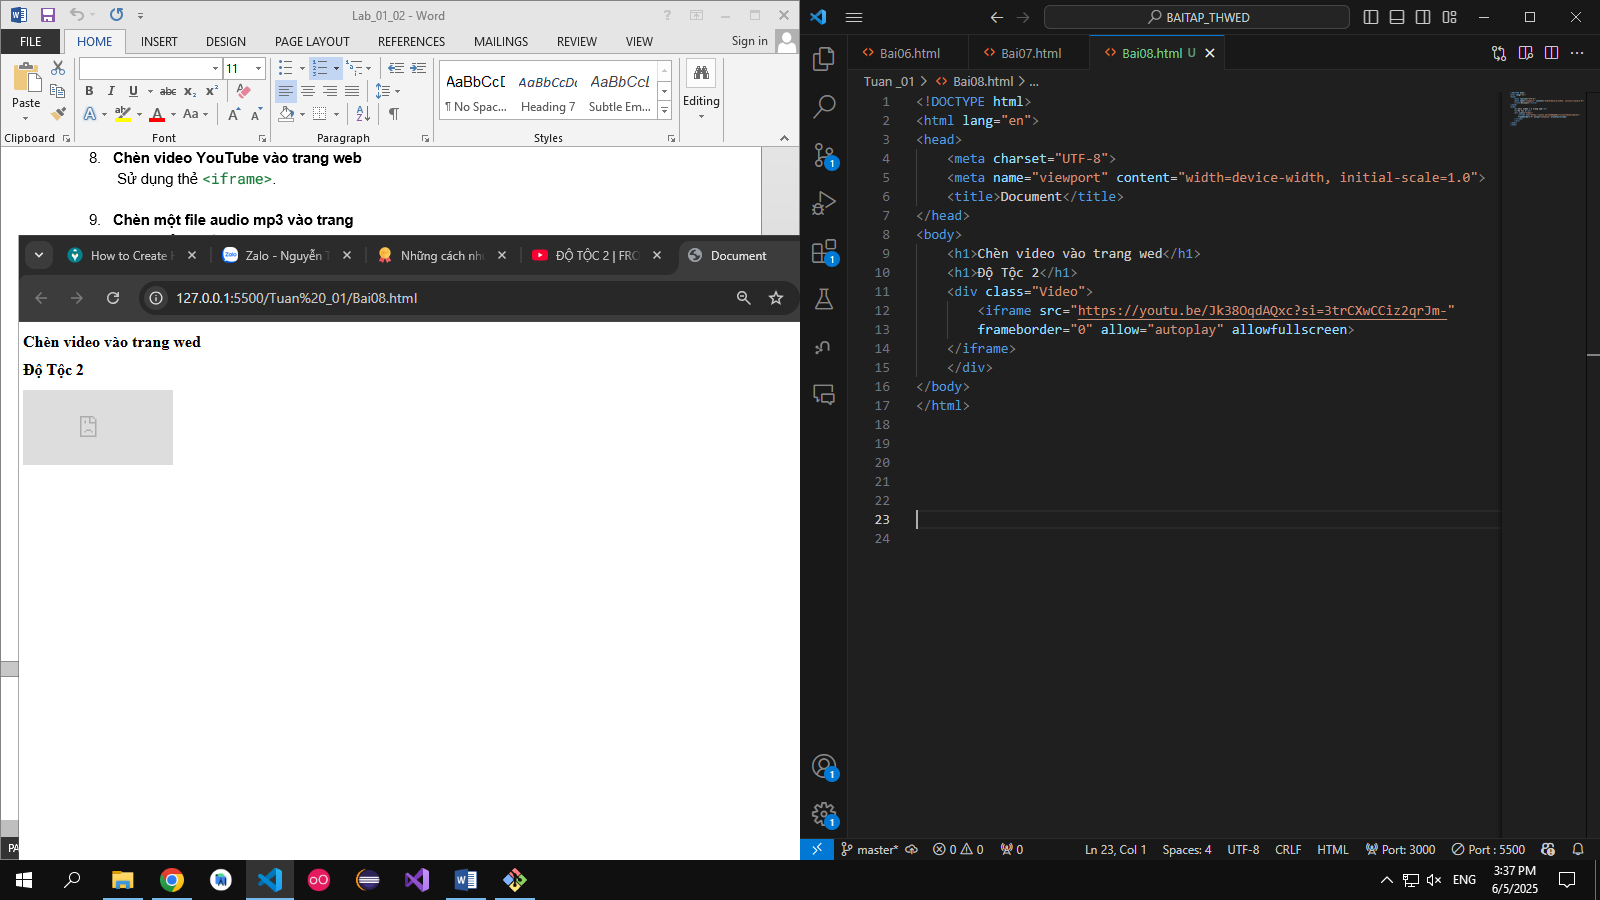
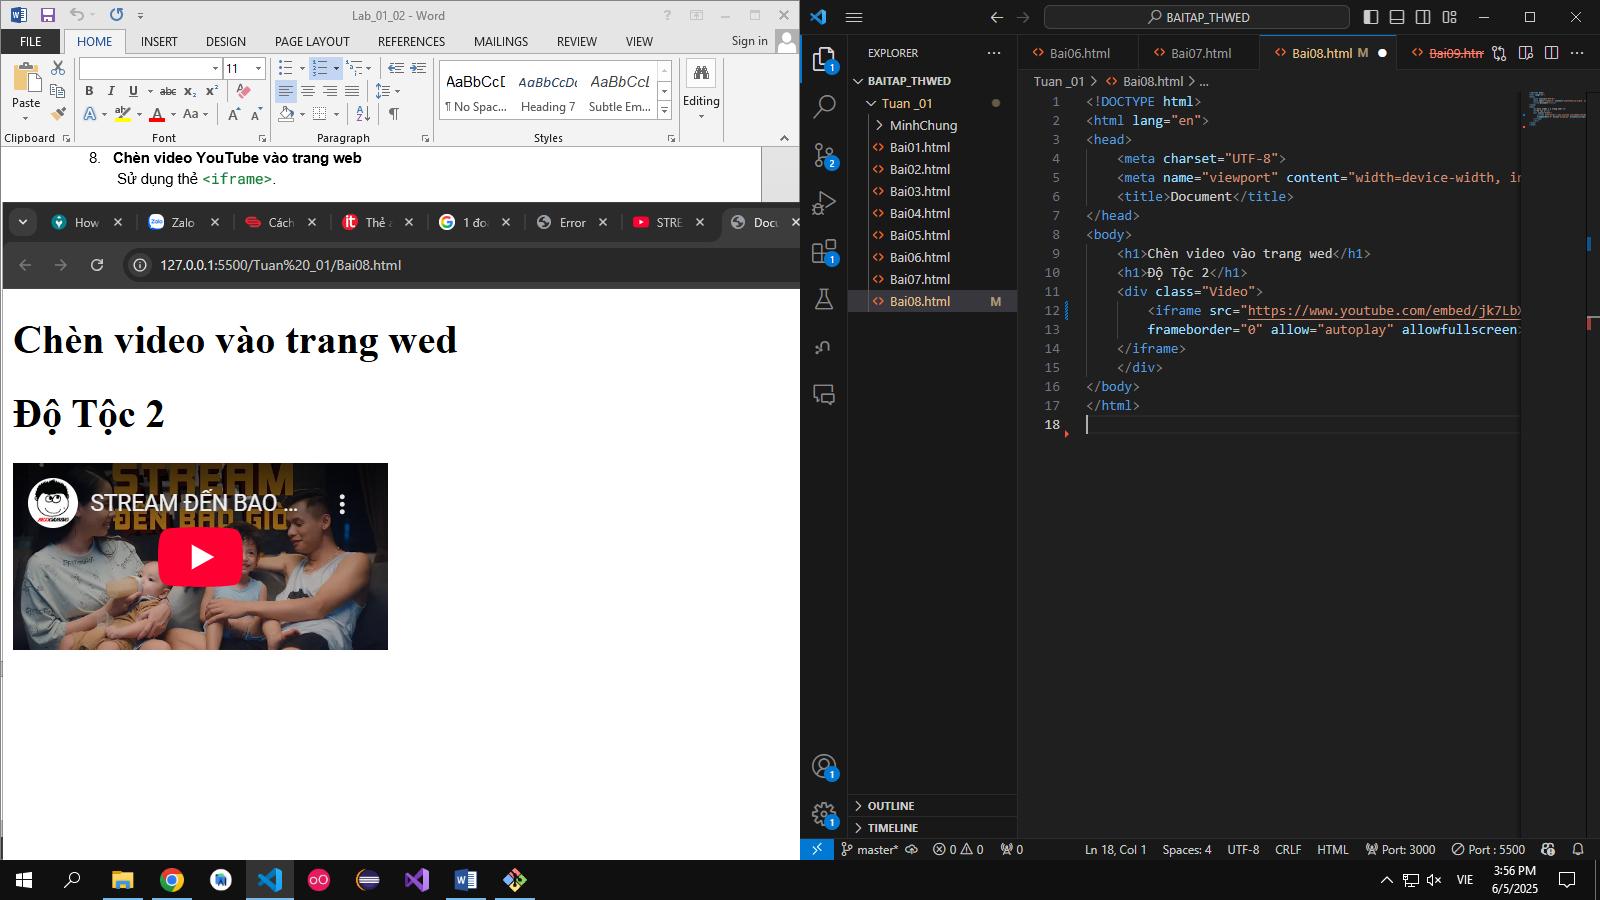
add folder tuan1 and index.html_mc Cau9

diff --git a/Tuan _01/Bai09.html b/Tuan _01/Bai09.html
@@ -1,0 +1,16 @@
+<!DOCTYPE html>
+<html lang="en">
+<head>
+    <meta charset="UTF-8">
+    <meta name="viewport" content="width=device-width, initial-scale=1.0">
+    <title>Document</title>
+</head>
+<body>
+    <p>Cách Audio</p> 
+
+<audio controls src= 
+"https://itviec.com/blog/wp-content/uploads/2024/06/itviec-ithero-song.wav" 
+type="audio/wav"> 
+</audio> 
+</body>
+</html>

diff --git a/Tuan _01/Bai08.html b/Tuan _01/Bai08.html
@@ -9,15 +9,9 @@
     <h1>Chèn video vào trang wed</h1>
     <h1>Độ Tộc 2</h1>
     <div class="Video">
-        <iframe src="https://youtu.be/Jk38OqdAQxc?si=3trCXwCCiz2qrJm-" 
+        <iframe src="https://www.youtube.com/embed/jk7LbXUpmz0?si=QW81HSU_DVPfhWLS" 
         frameborder="0" allow="autoplay" allowfullscreen>
     </iframe>
     </div>
 </body>
 </html>
-
-
-
-
-
-
